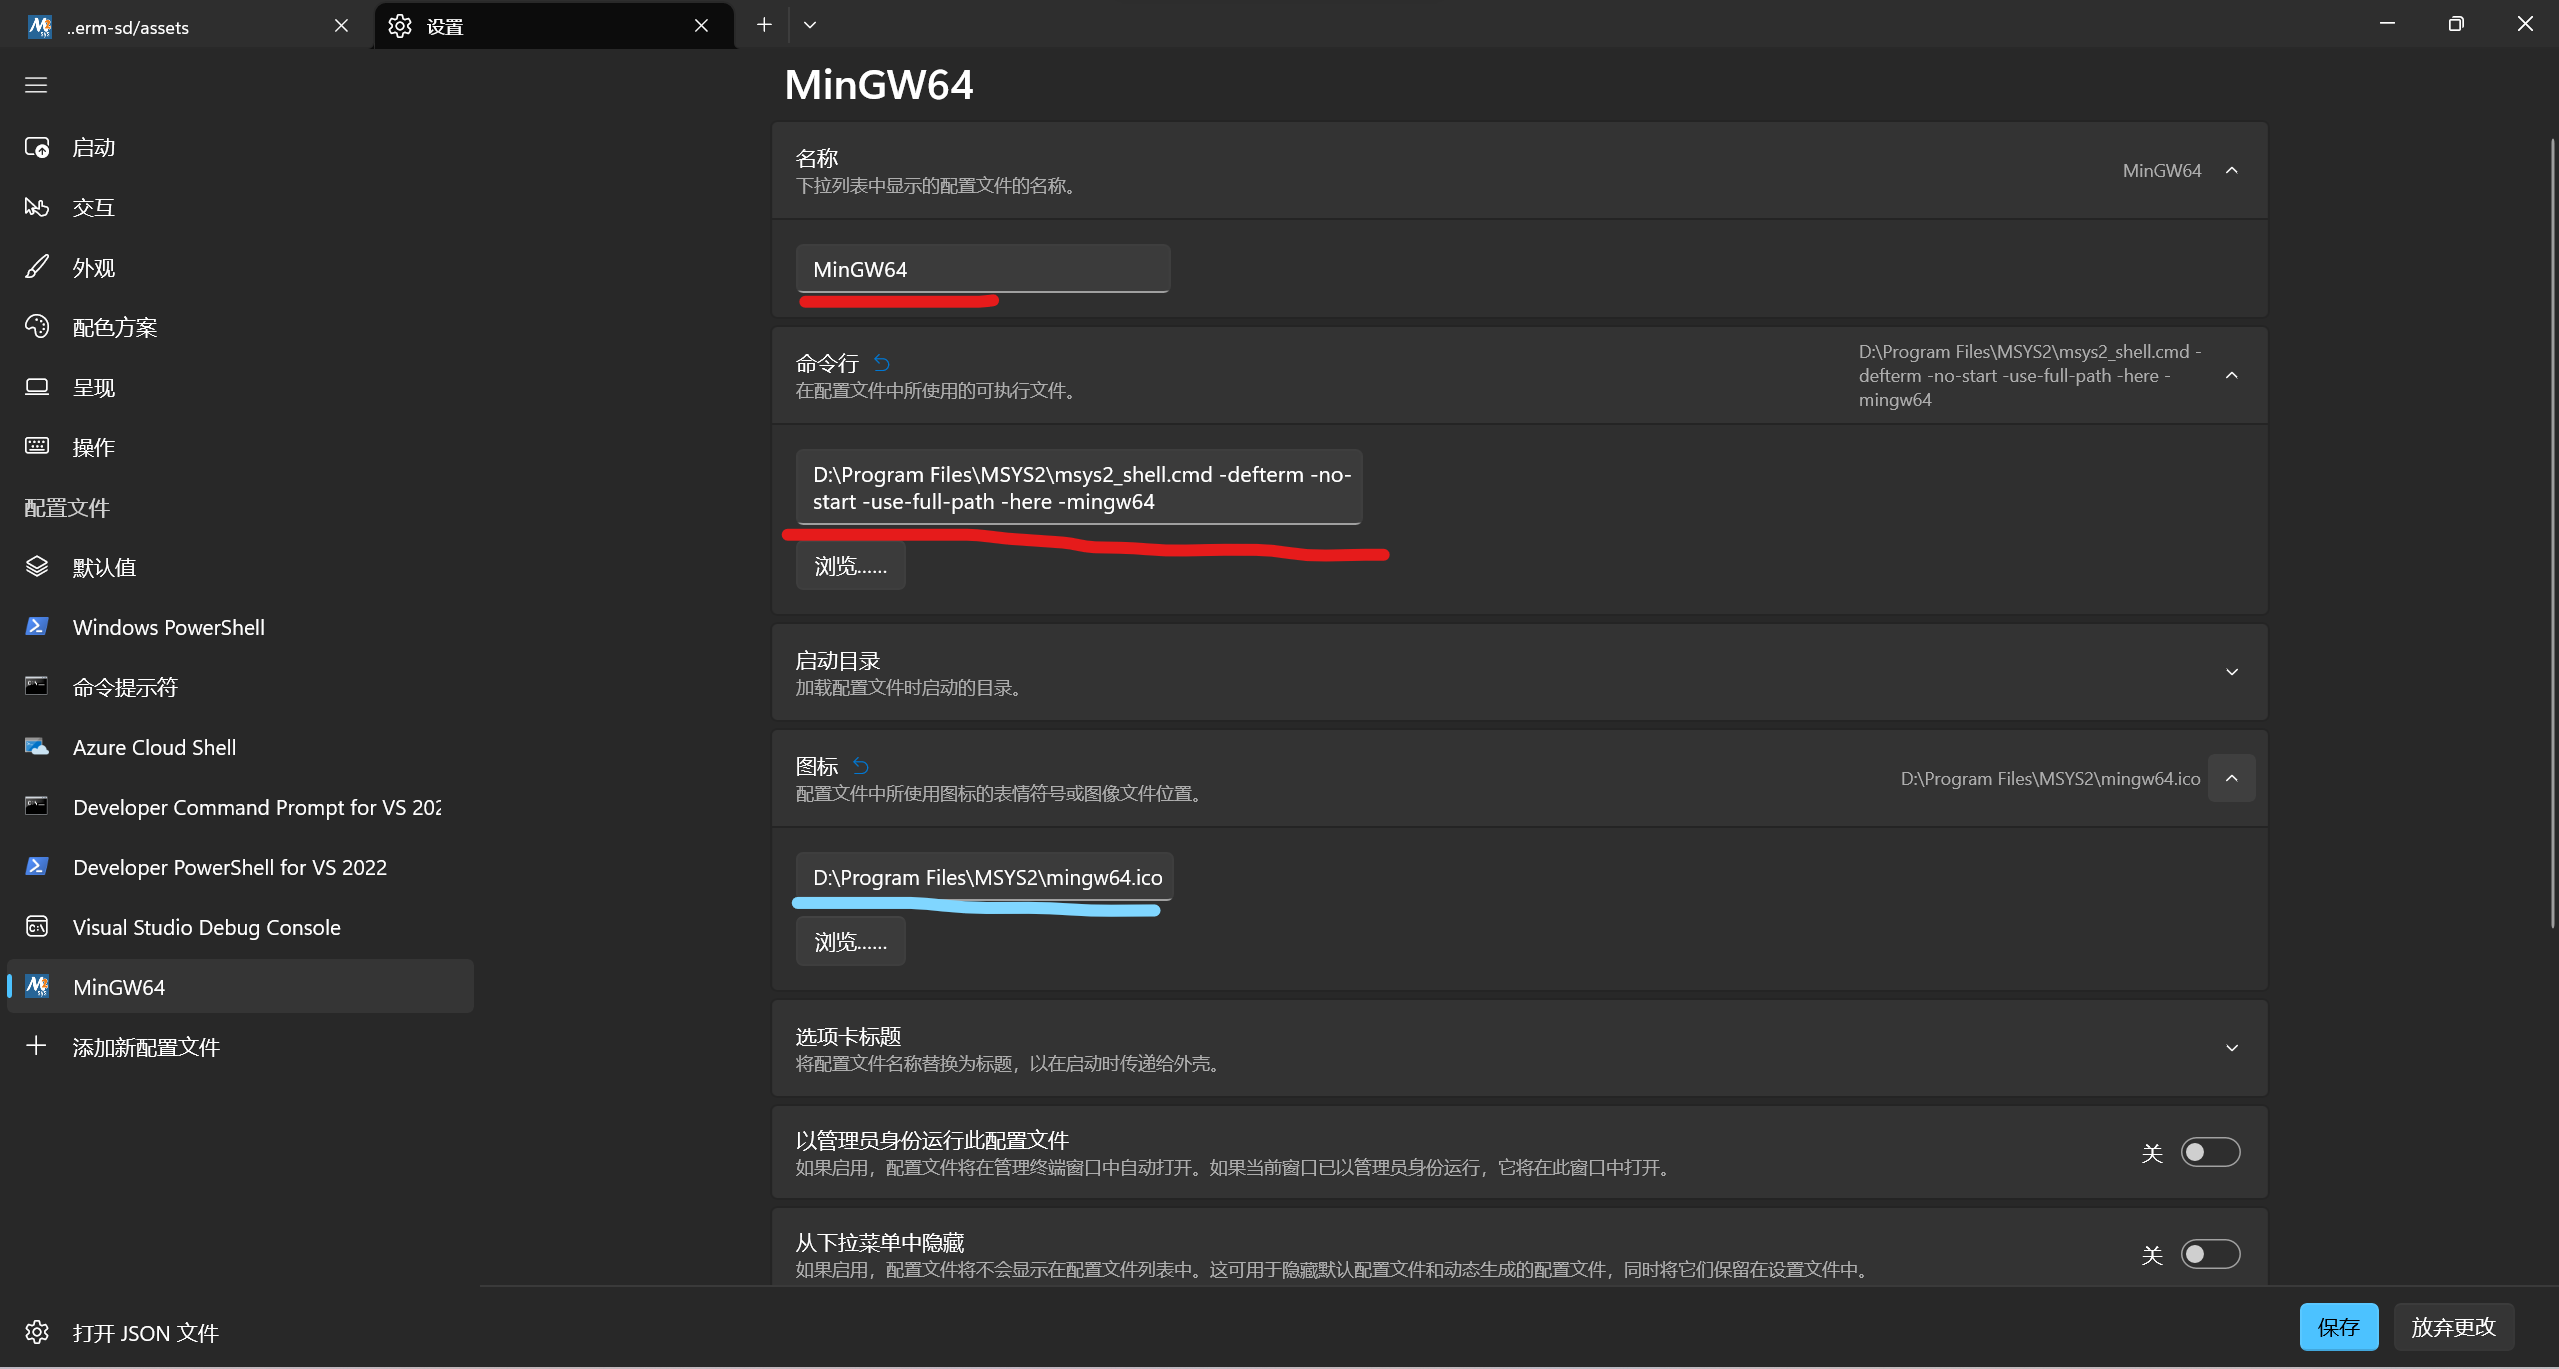
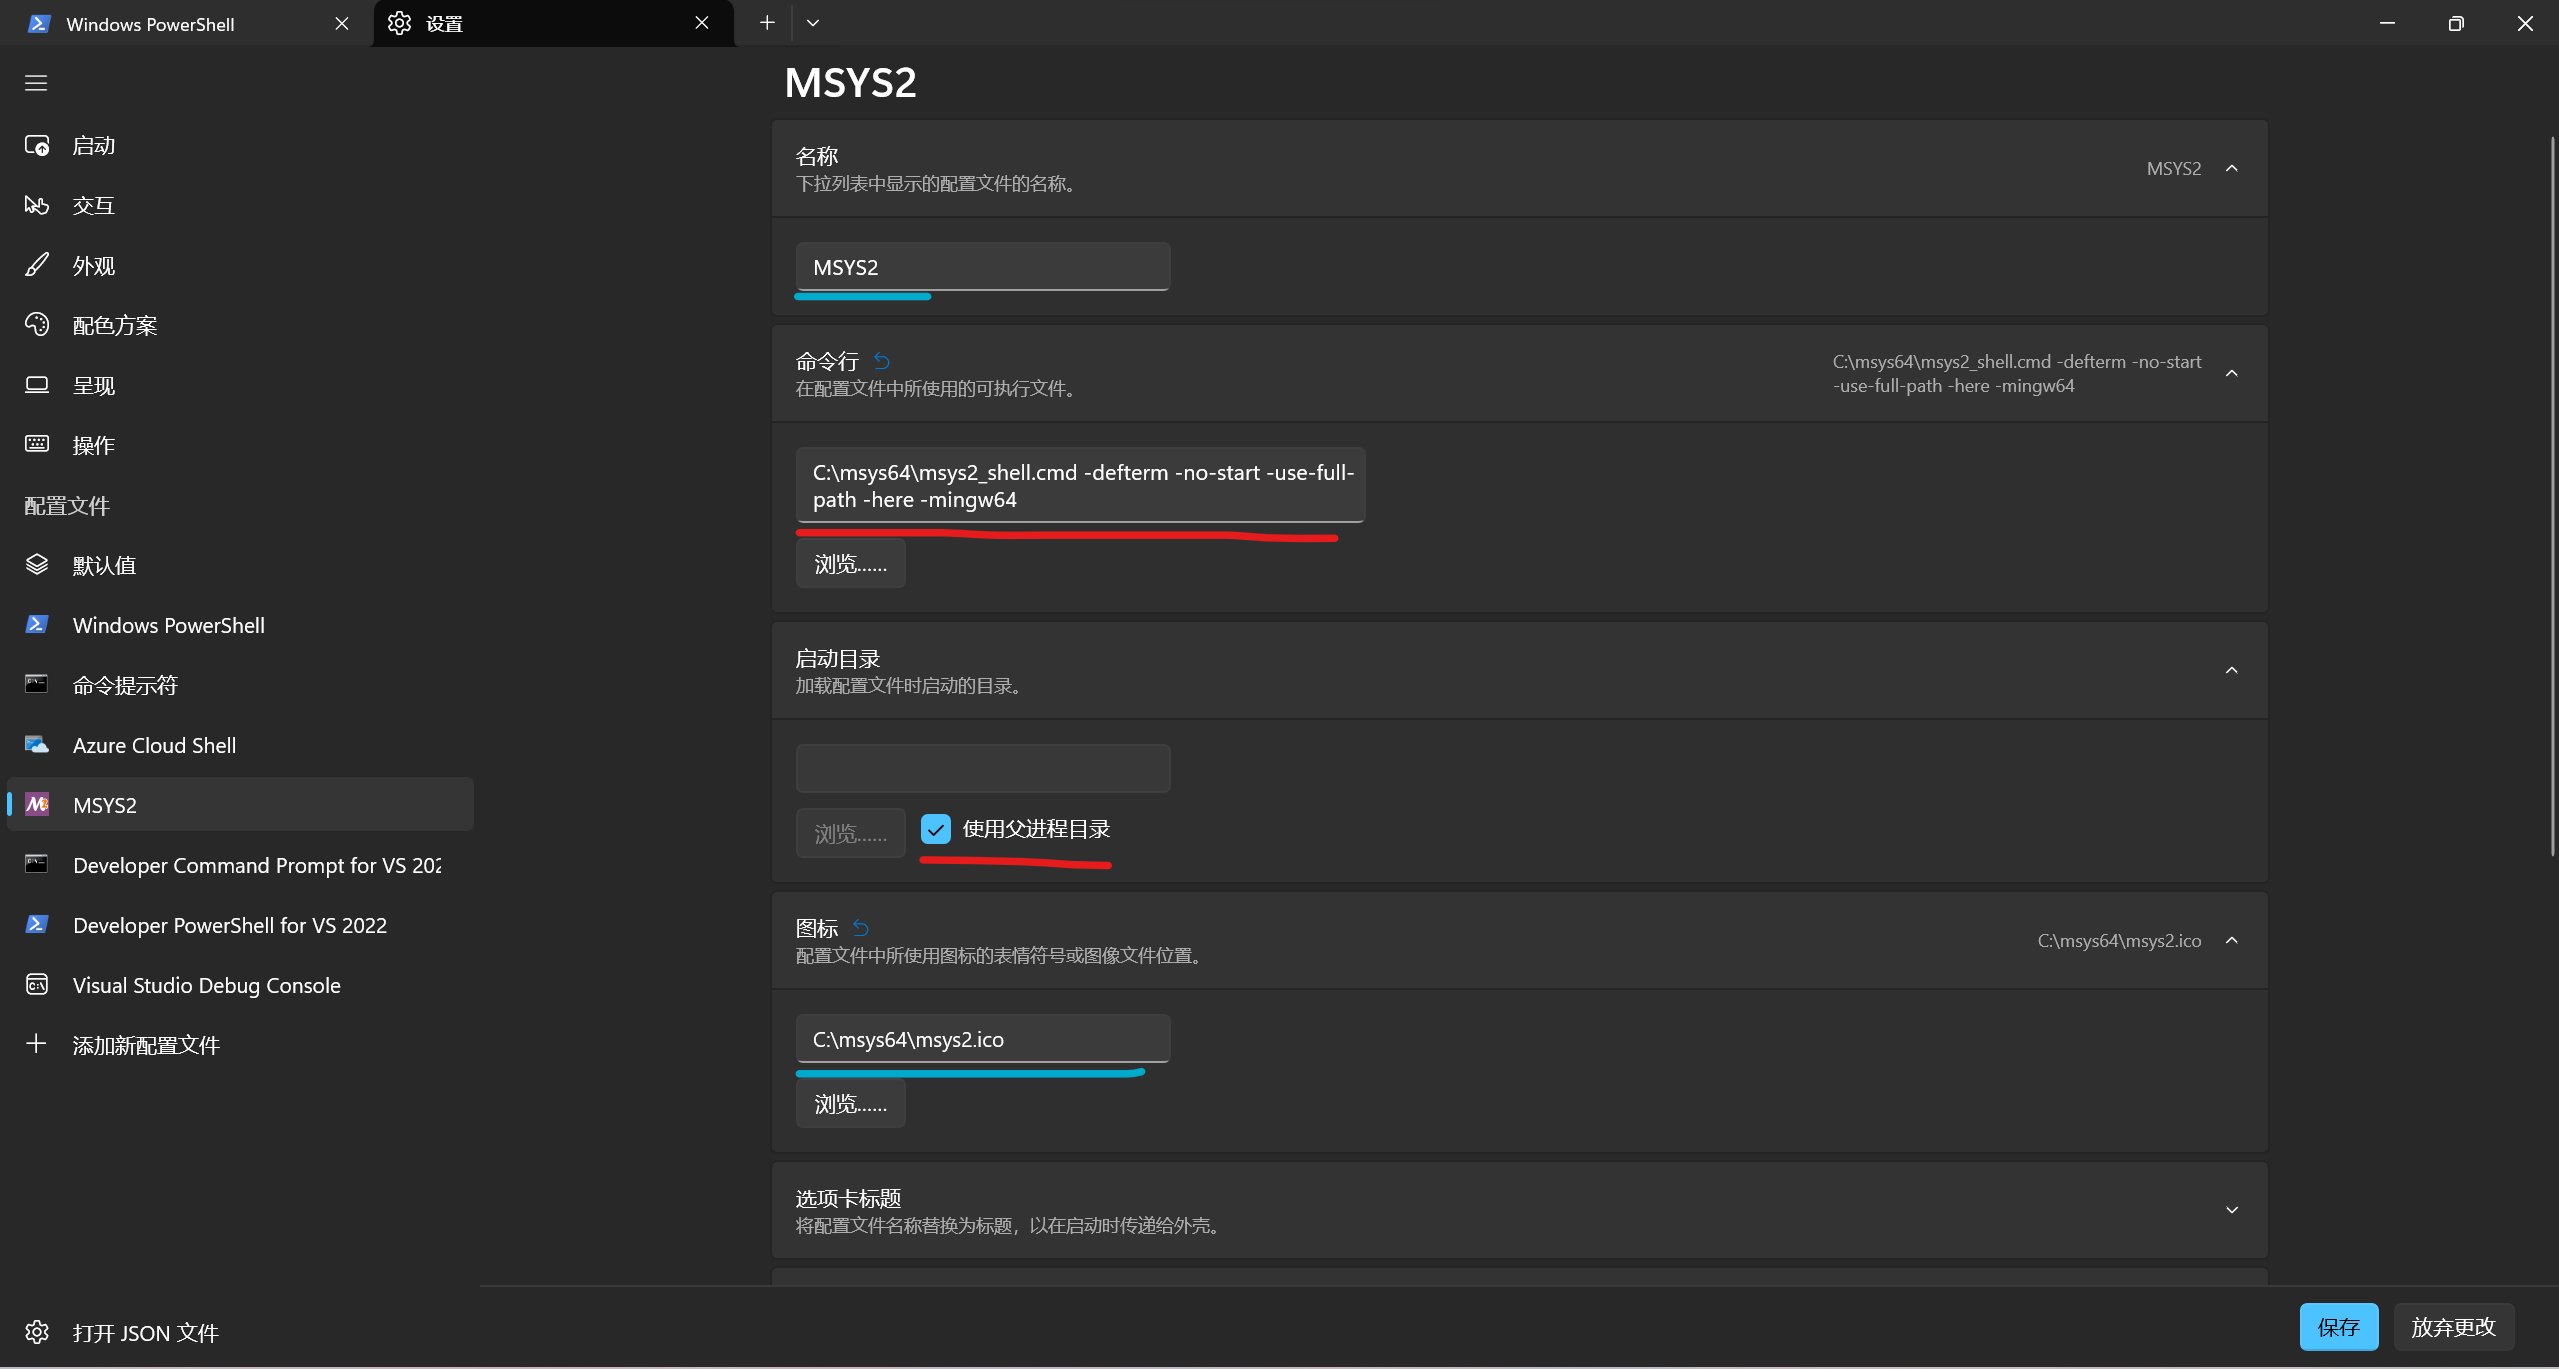
commit

diff --git a/term-sd/README_config_env.md b/term-sd/README_config_env.md
@@ -99,18 +99,21 @@
 >Windows10需在开始菜单中找到`micorsoft store`，搜索`Windows Terminal`进行安装
 
 右键桌面或者文件管理器空的位置，点击`在终端中打开`，在标题栏点击向下的箭头，打开Windows终端设置，点击`添加新配置文件`  
-在`名称`中填入`MinGW64`  
-在`命令行`填入  
+- 在`名称`中填入`MSYS2`  
+- 在`命令行`填入  
 ```
 C:\msys64\msys2_shell.cmd -defterm -no-start -use-full-path -here -mingw64
 ```
-（`C:\msys64`为安装目录，根据具体安装的目录修改）  
-在`启动目录`勾选`使用父进程目录`  
-在`图标`填入`C:\msys64\mingw64.ico`  
-（`C:\msys64`为安装目录，根据具体安装的目录修改）  
-保存后生效，在标题栏点击向下的箭头就可以看到`MinGW64`，打开后就可以下载和运行Term-SD(一定要用在`Windows终端`配置好的`MinGW64`运行Term-SD，`powershell`和`cmd`是没法运行Term-SD的)
->Windows终端默认启动powershell，如果想要启动时直接启动MinGW64，可以在Windows终端设置，`启动`->`默认配置文件`，将`Windows Powershell`改成`MinGW64`，这样每次打开Windows终端时默认就会打开MinGW64  
-如果要用msys2安装程序安装的`MSYS2 MINGW64`终端也可以，使用前需要手动编辑`/etc/profile`文件里的`MSYS2_PATH`变量，将aria2c，python添加进去，因为`MSYS2 MINGW64`终端并不会读取`系统属性`里设置的变量
+- 在`启动目录`勾选`使用父进程目录`  
+- 在`图标`填入
+```
+C:\msys64\msys2.ico
+```  
+>`C:\msys64`为刚刚安装msys2的目录，具体目录请根据自己安装msys2的目录修改
+
+保存后生效，在标题栏点击向下的箭头就可以看到`MSYS2`，打开后就可以下载和运行Term-SD(一定要用在`Windows终端`配置好的`MSYS2`运行Term-SD，因为`powershell`和`cmd`是没法运行Term-SD的)
+>Windows终端默认启动powershell，如果想要启动时直接启动MSYS2，可以在Windows终端设置，`启动`->`默认配置文件`，将`Windows Powershell`改成`MSYS2`，这样每次打开Windows终端时默认就会打开MSYS2  
+如果要用msys2安装程序安装的`MSYS2`终端也可以，使用前需要手动编辑`/etc/profile`文件里的`MSYS2_PATH`变量，将aria2c，python添加进去，因为`MSYS2`自带的终端并不会读取`系统属性`里设置的变量
 
 &nbsp;
 <div align="center">
@@ -119,14 +122,12 @@ C:\msys64\msys2_shell.cmd -defterm -no-start -use-full-path -here -mingw64
 ![Terminal](assets/config_env/33.png)  
 ![Terminal](assets/config_env/34.png)  
 `红色划线处为必填选项，蓝色划线处为选填项，填完后保存`  
-![Terminal](assets/config_env/35.png)  
-`启动MinGW64`  
 
 </div>
 
-### 6、配置MINGW64镜像源
+### 6、配置MSYS2镜像源
 
-安装好后在windows的开始菜单里找到`MSYS2 MINGW64`，打开  
+安装好后在Windows终端菜单里找到`MSYS2`，打开  
 在msys终端输入  
 ```
 sed -i "s#https\?://mirror.msys2.org/#https://mirrors.tuna.tsinghua.edu.cn/msys2/#g" /etc/pacman.d/mirrorlist*
@@ -135,7 +136,10 @@ pacman -Sy
 &nbsp;
 <div align="center">
 
+![Terminal](assets/config_env/35.png)  
+`启动MSYS2`  
 ![msys2-config](assets/config_env/36.png)  
+`配置MSYS2镜像源`
 
 </div>
 
@@ -149,6 +153,7 @@ pacman -S dialog
 <div align="center">
 
 ![dialog](assets/config_env/37.png)  
+`安装dialog`
 
 </div>
 
@@ -158,7 +163,7 @@ pacman -S dialog
 
 ## 配置完环境后使用Term-SD的方法：  
 ### 1、打开终端  
-打开Windows文件管理器，进入D盘，E盘之类的盘符（不要进入C盘，小心安装ai软件后C盘的空间消失），选择合适的安装路径（或者创建一个文件夹并进入），右键文件管理器空白处，选择“在终端中打开”（不要在桌面右键打开终端，因为终端启动的位置决定了Term-SD产生文件的位置，除非会使用cd命令切换路径），然后启动配置好的MinGW64（之后都需要用MinGW64启动Term-SD）  
+打开Windows文件管理器，进入D盘，E盘之类的盘符（不要进入C盘，小心安装ai软件后C盘的空间消失），选择合适的安装路径（或者创建一个文件夹并进入），右键文件管理器空白处，选择“在终端中打开”（不要在桌面右键打开终端，因为终端启动的位置决定了Term-SD产生文件的位置，除非会使用cd命令切换路径），然后启动配置好的MSYS2（之后都需要用MSYS2启动Term-SD）  
 <div align="center">
 
 ![termsd](assets/config_env/38.png)  
@@ -169,7 +174,7 @@ pacman -S dialog
 </div>
 
 ### 2、下载Term-SD
-在MinGW64终端输入以下命令下载Term-SD
+在MSYS2终端输入以下命令下载Term-SD
 ```
 aria2c https://raw.githubusercontent.com/licyk/sd-webui-script/main/term-sd.sh && chmod +x term-sd.sh
 ```
@@ -192,7 +197,7 @@ aria2c https://gitlab.com/licyk/term-sd/-/raw/main/term-sd.sh && chmod +x term-s
 </div>
 
 ### 3、启动Term-SD
-在MinGW64终端输入以下命令启动Term-SD
+在MSYS2终端输入以下命令启动Term-SD
 ```
 ./term-sd.sh
 ```
@@ -209,6 +214,3 @@ aria2c https://gitlab.com/licyk/term-sd/-/raw/main/term-sd.sh && chmod +x term-s
 
 ### ！操作Term-SD界面前请阅读[《Term-SD界面操作方法》](https://github.com/licyk/README-collection/blob/main/term-sd/README_how_to_use_dialog.md)  
 ### ！Term-SD的使用方法请阅读[《如何使用Term-SD》](https://github.com/licyk/README-collection/blob/main/term-sd/README_how_to_use_term_sd.md)  
-
->huggingface目前在大陆网络环境无法访问，需要使用带有TUN模式或者驱动模式的代理软件(如果开启代理软件后还会出现下载失败的问题，需在Term-SD中配置好代理参数)，保证能够正常下载模型
-

diff --git a/term-sd/README_how_to_use_dialog.md b/term-sd/README_how_to_use_dialog.md
@@ -1,10 +1,10 @@
-## 关于Term-SD操作界面，你需要知道的  
+# 关于Term-SD操作界面，你需要知道的  
 
-### Term-SD如何显示界面  
+## Term-SD如何显示界面  
 Term-SD使用GNU项目提供的dialog组件来显示图形界面，dialog为用户提供文本用户界面（TUI）。虽然该方式不如图形化界面（GUI）的操作方便，但是可以让用户不需要手动输入命令来进行各项操作。当然，因为在终端中运行的特性，dialog甚至可以在linux的tty中显示界面  
 ![dialog](assets/how_to_use_dialog/1.png)  
 
-### dialog操作方法  
+## dialog操作方法  
 >如果终端的大小太小，可能会造成界面显示不完全，需要将终端的窗口调大
 
 Term-SD使用了5种类型的dialog界面  
@@ -12,30 +12,42 @@ Term-SD使用了5种类型的dialog界面
 当dialog的界面的底下有两个选项时，高亮光标的位置代表选择的“是”或否；当只有一个选项时，高亮光标的位置只代表“是”  
 如果界面不显示，可以按下任意一个方向键（不要按空格键，回车键，ESC键，不然容易导致误操作），dialog的界面就会显示出来（有时候dialog会有这种不显示界面的bug，仅在Windows系统上发现过）
 
-#### 1、信息展示界面  
+### 1、信息展示界面  
 ![dialog](assets/how_to_use_dialog/2.png)  
 该界面只有一个展示界面和一个确认按钮，用于展示大量的文本信息  
 
-#### 2、输入界面  
+### 2、输入界面  
 ![dialog](assets/how_to_use_dialog/3.png)  
 该界面有一个输入框和确认，取消按钮，用于输入信息，粘贴内容的快捷键不能使用`Ctrl+V`，要使用`Ctrl+Shift+V`  
 
-#### 3、是否选择界面  
+### 3、是否选择界面  
 ![dialog](assets/how_to_use_dialog/4.png)  
 该界面有是，否选择按钮，用于确认用户的选择  
 
-#### 4、复选界面  
+### 4、复选界面  
 ![dialog](assets/how_to_use_dialog/5.png)  
 该界面提供多个带有勾选框的选项，用于提供勾选功能，已勾选的选项显示[*]  
 
-#### 5、选择界面  
+### 5、选择界面  
 ![dialog](assets/how_to_use_dialog/6.png)  
 该界面提供多个选项，用于提供选择  
 
-### 终端特殊用法
+## 终端特殊用法
+### 1、查看之前的输出
 ![dialog](assets/how_to_use_dialog/7.png)  
 在图形化界面使用的终端，如Windows终端，MSYS2终端，gnome终端，konsole终端等(非tty终端)，在右边都会带有可以上下翻页的滚动条，在dialog界面显示显示出来后，如果想要查看之前的命令输出内容，就可以用鼠标按住滚动条向上滑。回到原来的dialog界面就滑到最下面，或者按下任意一个方向键（不要按空格键，回车键，ESC键，不然容易导致误操作），也可以回到原来的dialog界面
 
-### 界面提示
+### 2、界面提示
 ![dialog](assets/how_to_use_dialog/8.png)  
 当dialog界面高度不足，无法显示全部内容时，会出现上面的提示，用户可以通过方向上/下键来显示被隐藏的内容
+
+### 3、打开链接
+部分终端支持显示链接提示（在链接下方显示下划线），当鼠标光标移至链接上时，终端会提示这是链接并允许用户使用`Ctrl+鼠标左键`打开链接  
+<div align="center">
+
+![dialog](assets/how_to_use_dialog/9.png)  
+`Windows终端`  
+![dialog](assets/how_to_use_dialog/10.png)  
+`Gnome终端`  
+
+</div>
